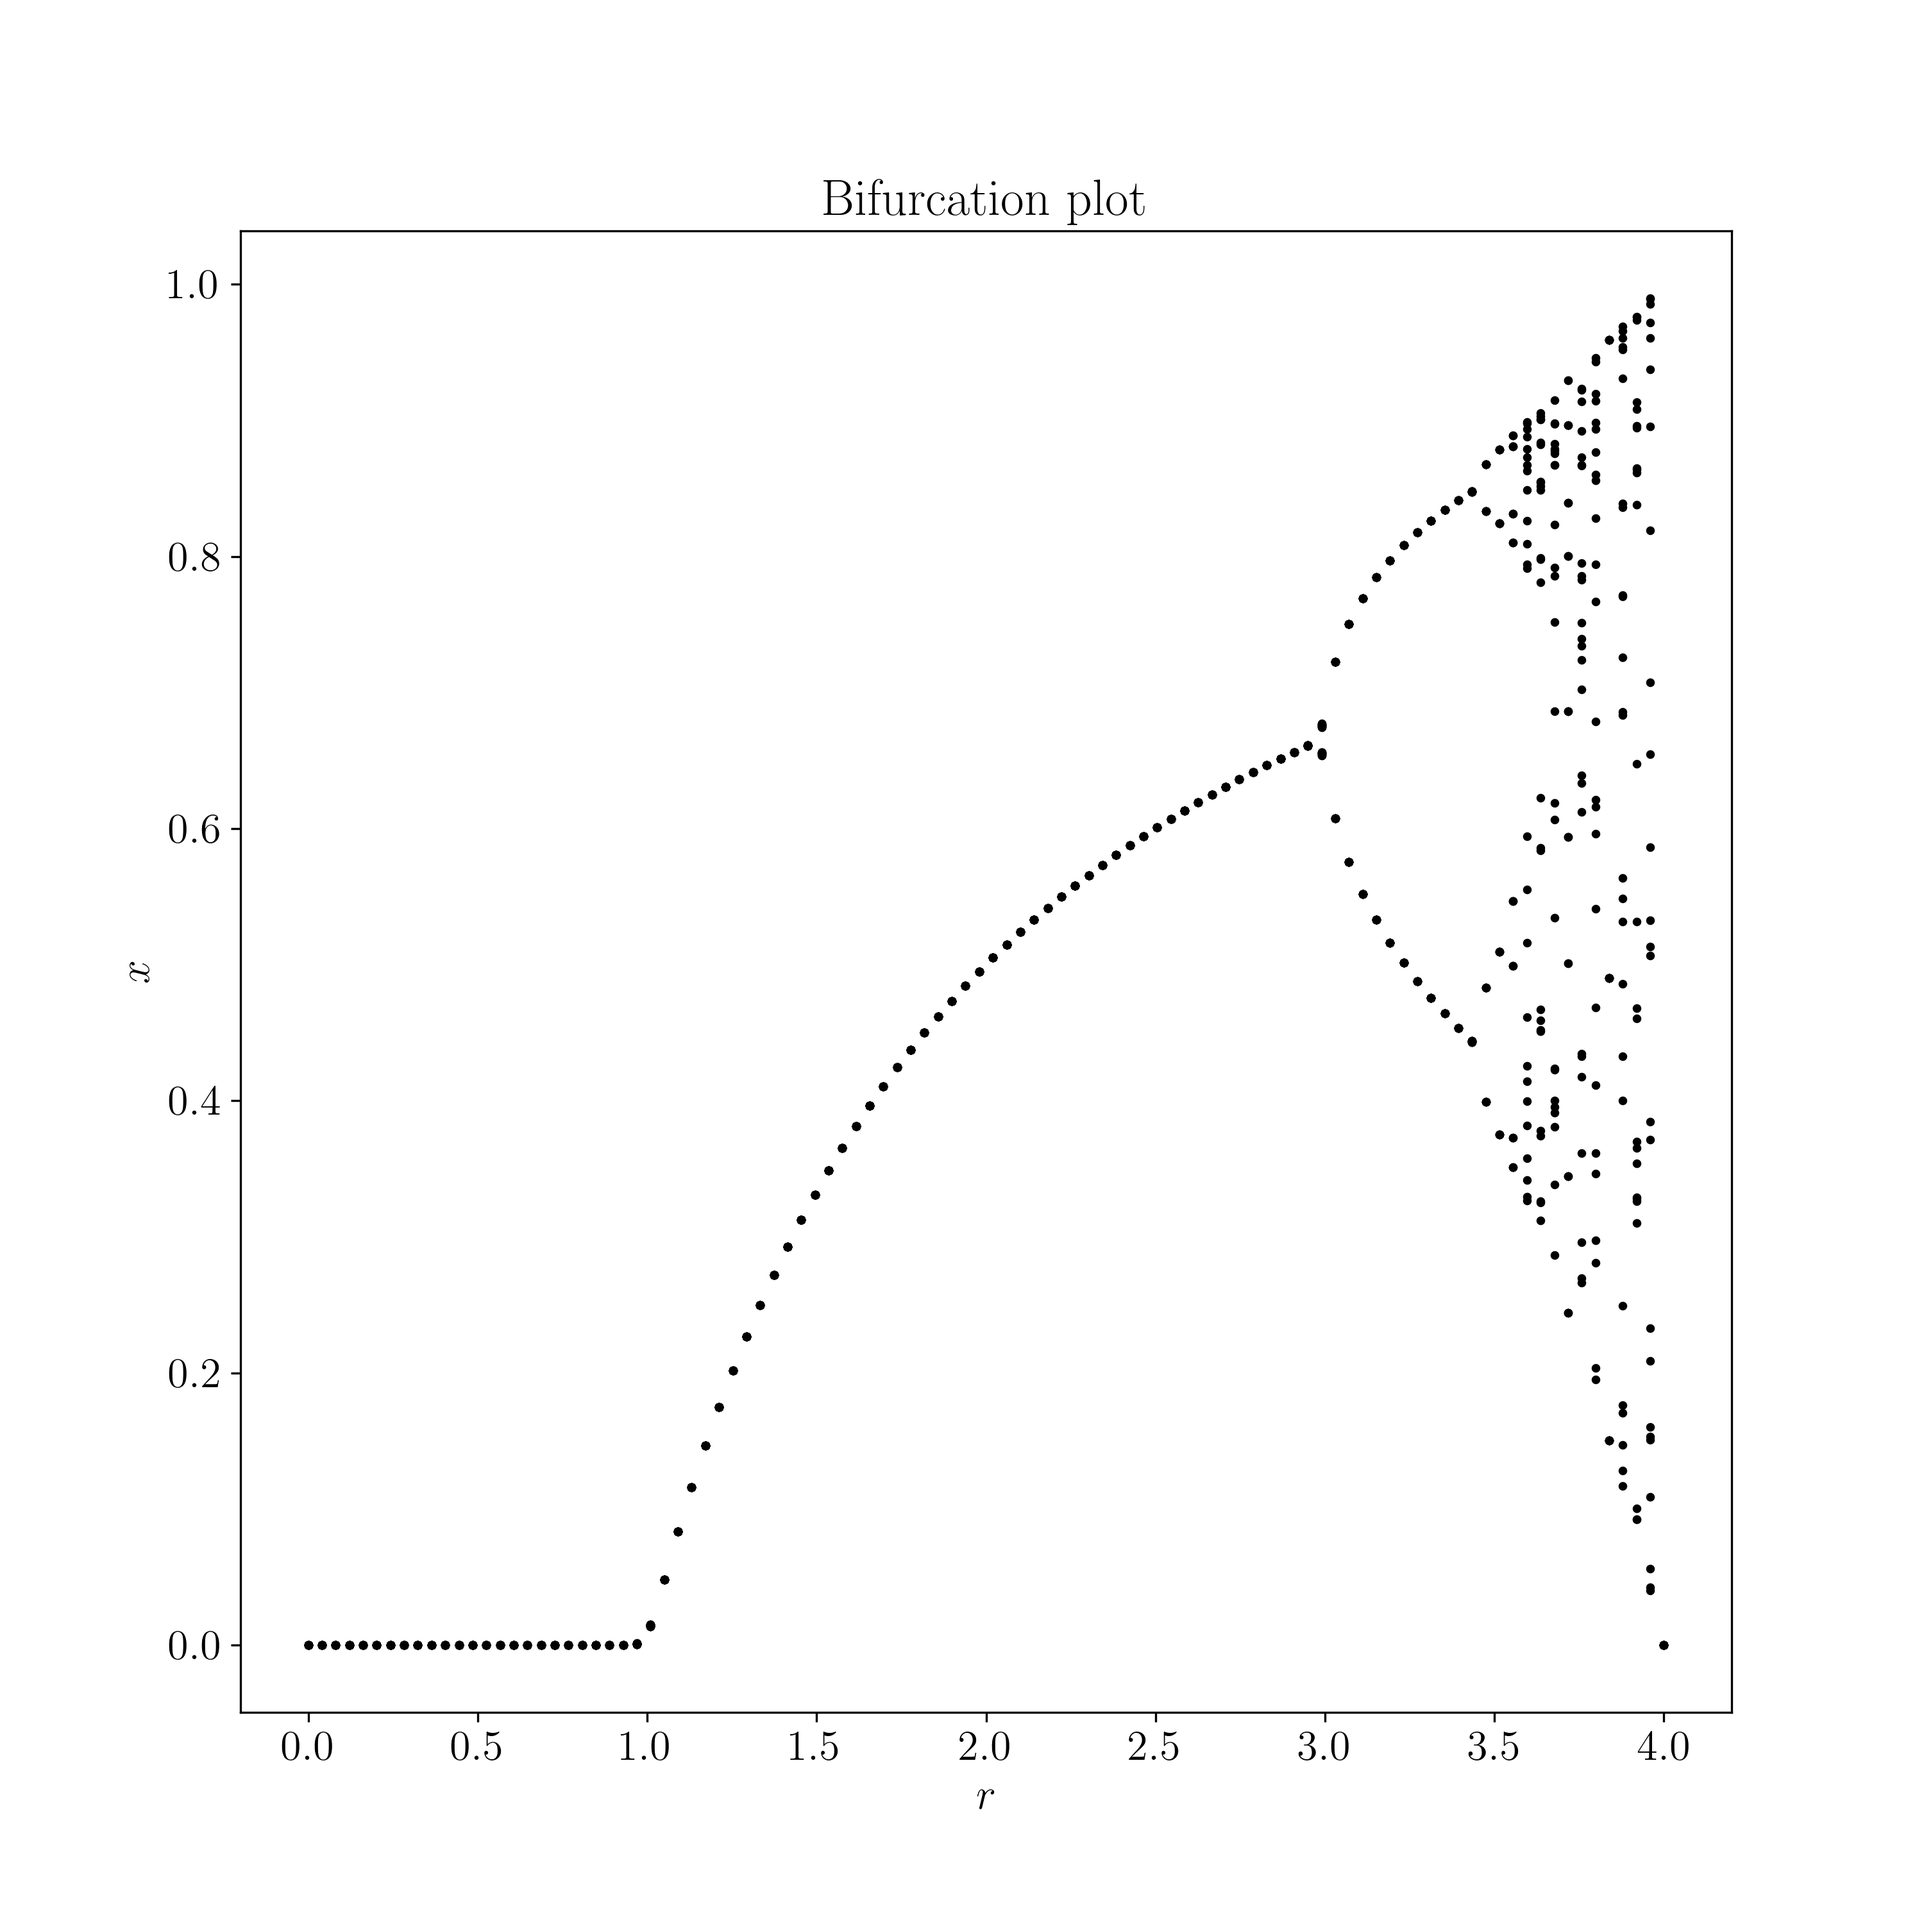
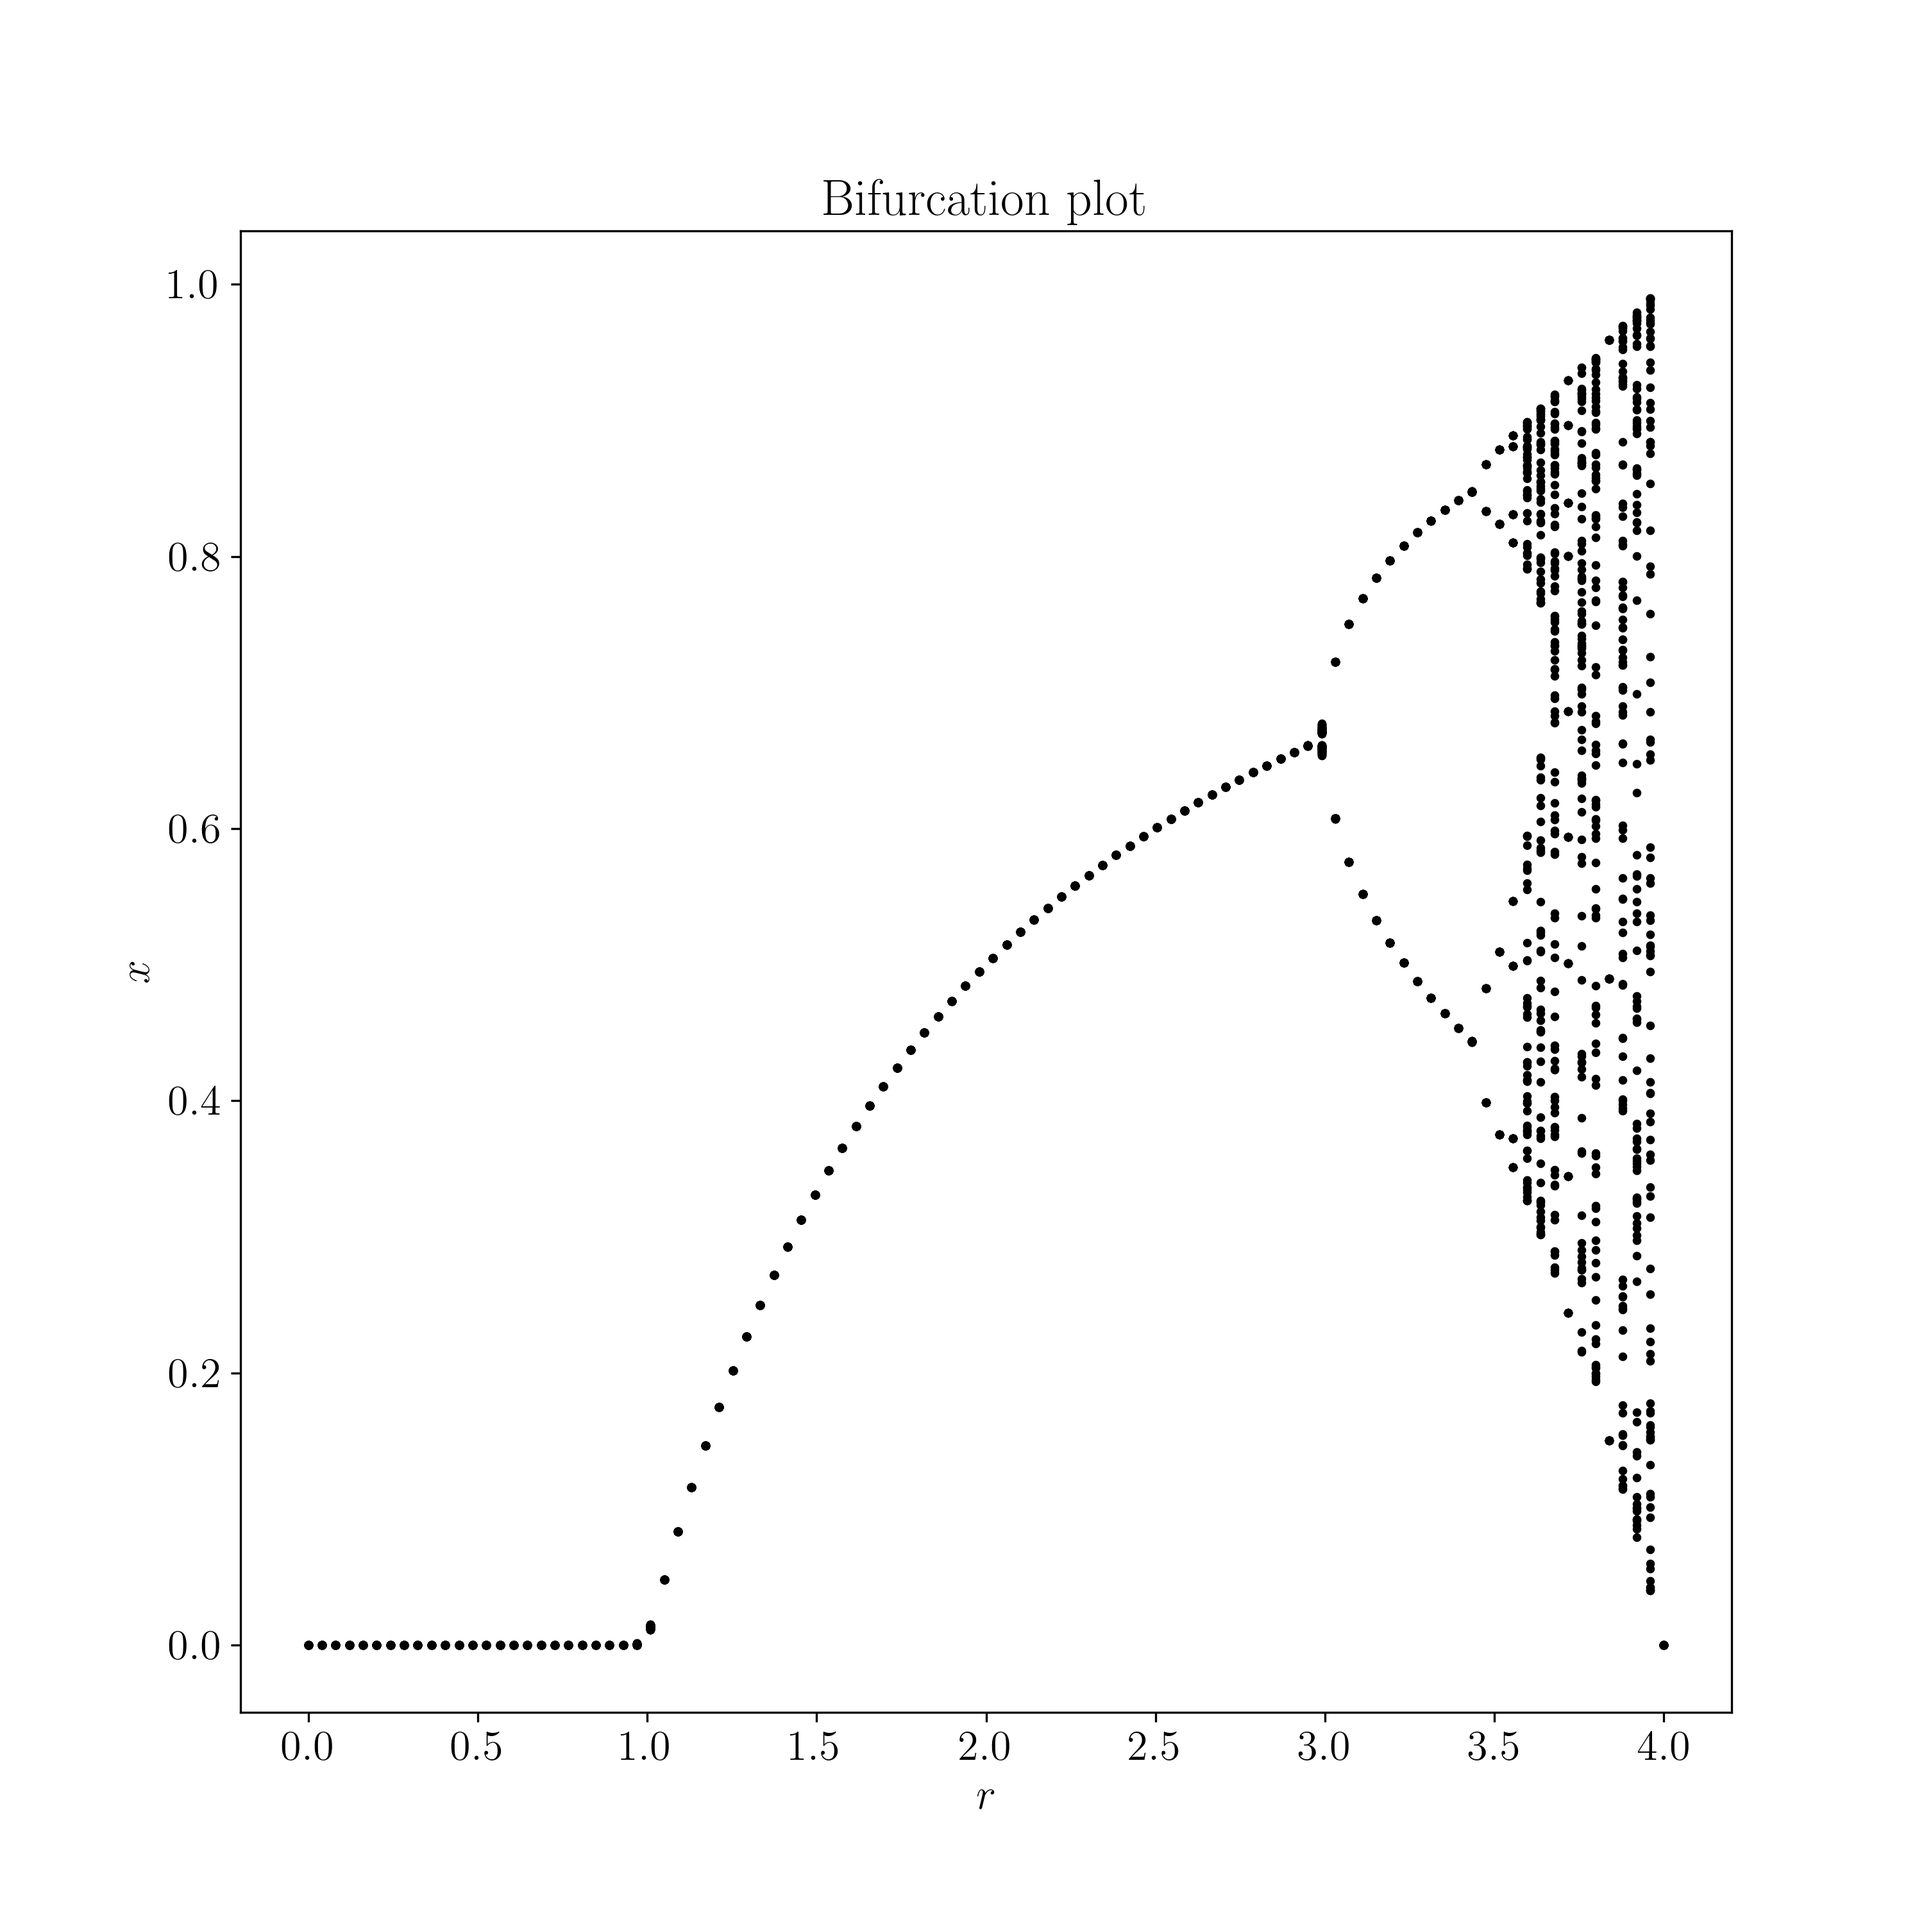
Fixed images again and commented savefigs

diff --git a/Tareas/mapeo_logistico.py b/Tareas/mapeo_logistico.py
@@ -87,7 +87,7 @@ if __name__ == "__main__":
     ax_1.set_ylabel("$x_n$", size=15)
     ax_1.set_xlabel("$x_{n+1}$", size=15)
     ax_1.set_zlabel("$x_{n+2}$", size=15)
-    plt.savefig("logistic_map_function_plot.png", dpi=300)  # Uncomment to save figure
+    # plt.savefig("logistic_map_function_plot.png", dpi=300)  # Uncomment to save figure
 
     # !SECTION
 
@@ -113,7 +113,7 @@ if __name__ == "__main__":
         mfc="r",
     )
     plt.title(f"Fixed point(s) for r = {r}")
-    plt.savefig(f"fixed_point_for_r_{r}.png", dpi=300)  # Uncomment to save figure
+    # plt.savefig(f"fixed_point_for_r_{r}.png", dpi=300)  # Uncomment to save figure
     # It approaches 0!
 
     # What about multiple values for r?
@@ -150,13 +150,14 @@ if __name__ == "__main__":
             del x_n_list
 
     plt.suptitle("Fixed points for different values of $r$")
-    plt.savefig("multiple_r_values.png", dpi=300)  # Uncomment to save figure
+    # plt.savefig("multiple_r_values.png", dpi=300)  # Uncomment to save figure
     # There are different and sometimes multiple fixed points for a given value of r
 
     # !SECTION
 
     # SECTION - BIFURCTATION PLOT
     # Another way to analyze how the fixed points change is using a bifurcation plot:
+    # !TODO Add parallel method to plot multiple points
     r_list = np.linspace(start=0, stop=4, num=100)
     n_iterations = 100
 
@@ -167,7 +168,7 @@ if __name__ == "__main__":
         for n in range(n_iterations):
             x_next = logistic_map_eq(r=r, x_current=x_current)
             x_current = x_next
-        for n in range(n_iterations//4):
+        for n in range(n_iterations):
             x_next = logistic_map_eq(r=r, x_current=x_current)
             x_current = x_next
             plt.scatter(r, x_next, c="black", s=5)
@@ -176,5 +177,3 @@ if __name__ == "__main__":
     plt.xlabel("$r$")
     plt.ylabel("$x$")
     plt.savefig("bifurcation_plot.png", dpi=300)
-        
-
